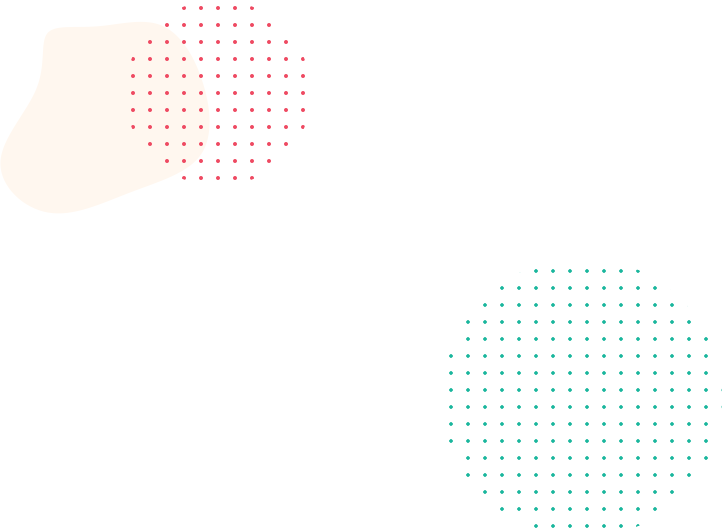
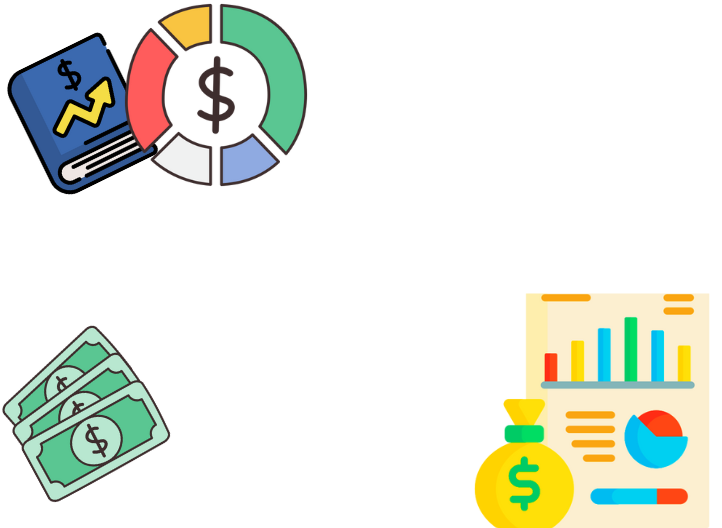
Added png to about us

Changed region(s): [[0.6399, 0.5455, 1.0, 1.0], [0.0, 0.0, 0.4266, 0.3636], [0.0, 0.6061, 0.2438, 0.9697]]

diff --git a/index.html b/index.html
@@ -289,11 +289,11 @@
                 class="img-cover">
             </div>
 
-            <img src="./assets/images/about-shape-1.svg" width="360" height="420" loading="lazy" alt=""
-              class="shape about-shape-1">
+           <!-- <img src="./assets/images/about-shape-1.svg" width="360" height="420" loading="lazy" alt=""
+              class="shape about-shape-1"> -->
 
-            <img src="./assets/images/about-shape-2.svg" width="371" height="220" loading="lazy" alt=""
-              class="shape about-shape-2">
+          <!--  <img src="./assets/images/about-shape-2.svg" width="371" height="220" loading="lazy" alt=""
+              class="shape about-shape-2"> -->
 
             <img src="./assets/images/about-shape-3.png" width="722" height="528" loading="lazy" alt=""
               class="shape about-shape-3">
@@ -593,7 +593,7 @@
 
             <li>
               <div class="stats-card" style="--color: 170, 75%, 41%">
-                <h3 class="card-title">29.3k</h3>
+                <h3 class="card-title">100+</h3>
 
                 <p class="card-text">Student Enrolled</p>
               </div>
@@ -601,7 +601,7 @@
 
             <li>
               <div class="stats-card" style="--color: 351, 83%, 61%">
-                <h3 class="card-title">32.4K</h3>
+                <h3 class="card-title">100+</h3>
 
                 <p class="card-text">Class Completed</p>
               </div>
@@ -616,10 +616,10 @@
             </li>
 
             <li>
-              <div class="stats-card" style="--color: 42, 94%, 55%">
-                <h3 class="card-title">354+</h3>
+              <div class="stats-card" style="--color: 210, 94%, 45%">
+                <h3 class="card-title">100+</h3>
 
-                <p class="card-text">Top Instructors</p>
+                <p class="card-text">Profitable traders</p>
               </div>
             </li>
 
